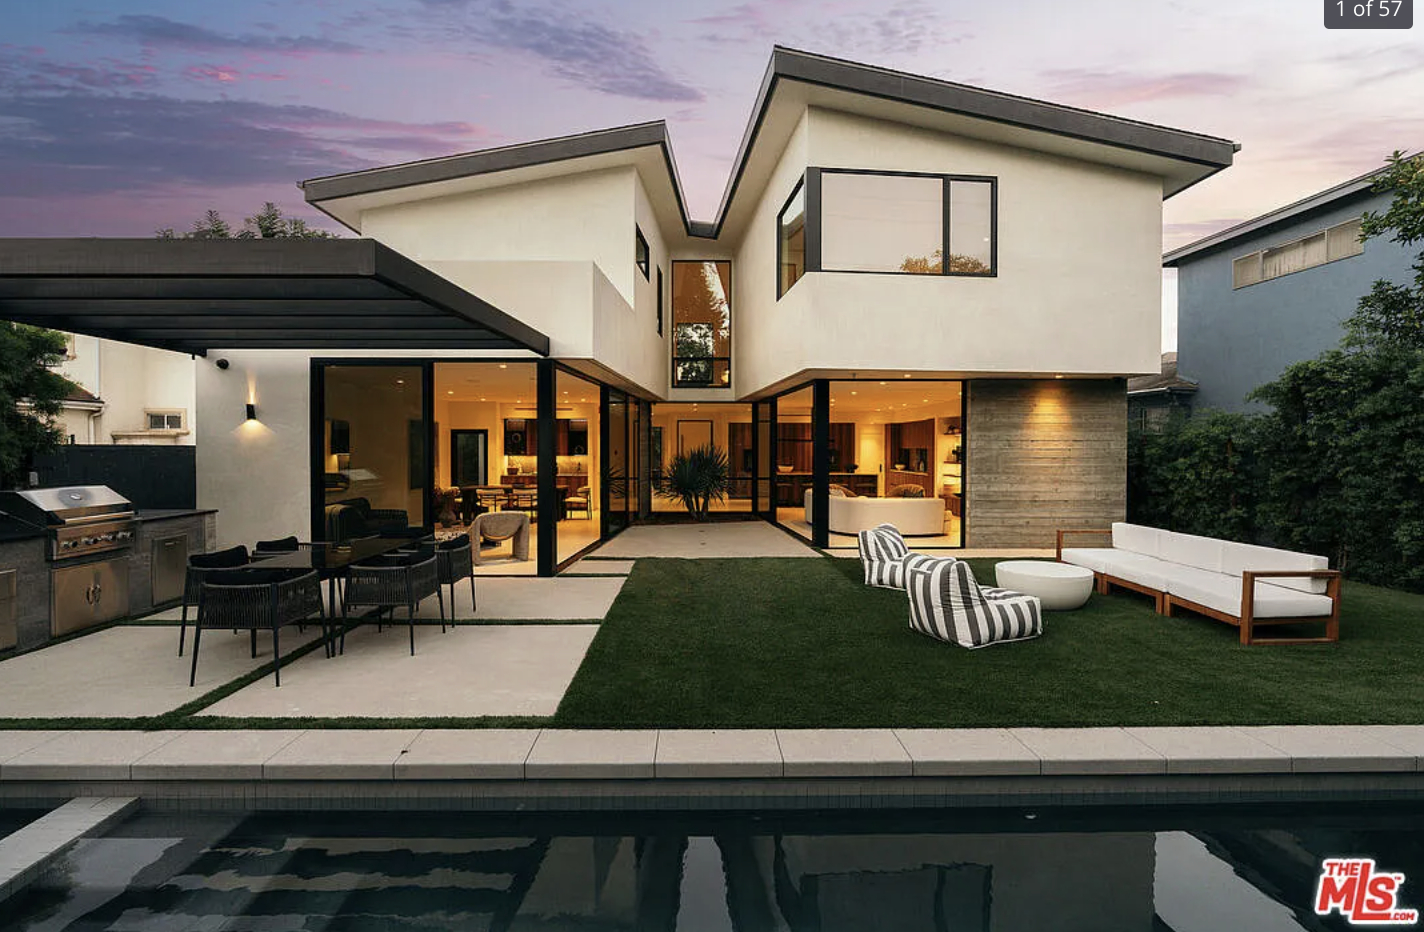
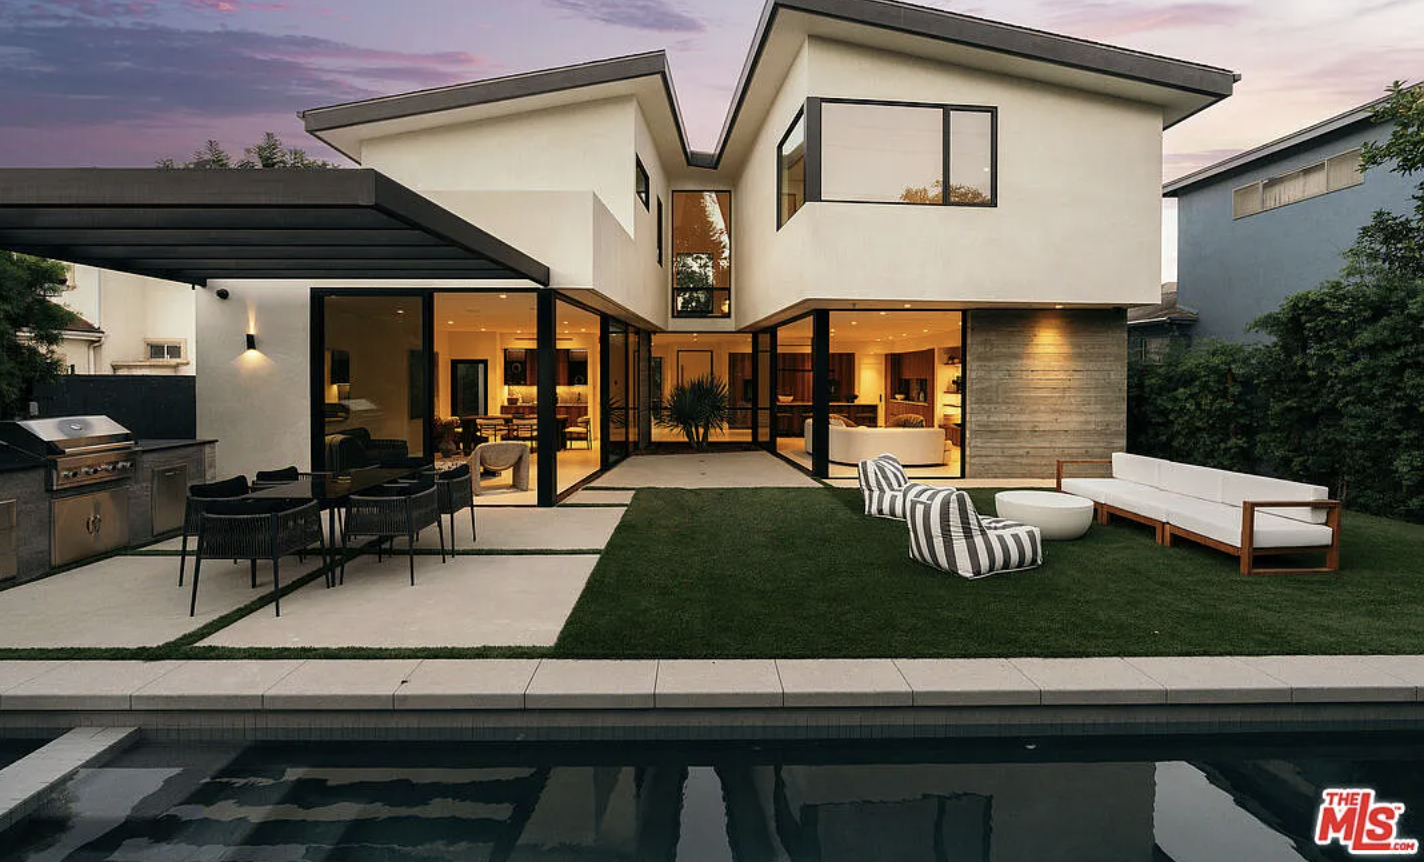
Fix admin price/rent form, hero image, card border, All Properties tab
- Admin: add syncPriceFields() so status drives which price fields show —
  FOR SALE shows sale price only, FOR LEASE shows rent only, FOR SALE/LEASE
  shows both; prevents rent being silently ignored when status is wrong
- Admin: newsletter year dropdown now goes back to 2012
- Hero image: crop top 70px to remove baked-in '1 of 57' lightbox badge
- CSS: remove grey border from .property-grid-item-2 (Built by Ben cards)
- current-listings.html: hide 'All Properties' tab button

diff --git a/current-listings.html b/current-listings.html
@@ -169,11 +169,7 @@
         <div class="container w-container">
           <div class="padding-listing-3">
             <div data-current="Grid" data-easing="ease" data-duration-in="300" data-duration-out="100" class="tabs-3 w-tabs">
-              <div class="tabs-menu-3 w-tab-menu">
-                <a data-w-tab="Grid" class="tab-link-3 w-inline-block w-tab-link w--current"><img alt="" loading="lazy" src="images/grid_view_white_24dp.svg" class="tab-icon-2">
-                  <p class="tab-title-3">All properties</p>
-                </a>
-              </div>
+              <div class="tabs-menu-3 w-tab-menu" style="display:none">
               <div class="tabs-content w-tab-content">
                 <div data-w-tab="Grid" class="tab-pane-2 w-tab-pane w--tab-active">
                   <div class="property-grid-2 current o w-dyn-list">

diff --git a/css/ben-lee-properties.webflow.css b/css/ben-lee-properties.webflow.css
@@ -5071,7 +5071,6 @@ figcaption {
 
 .property-grid-item-2 {
   z-index: 1;
-  border: 1px solid var(--silver);
   align-self: stretch;
   margin-top: -1px;
   margin-left: -1px;
@@ -9287,3 +9286,5 @@ figcaption {
     grid-template-columns: 1fr !important;
   }
 }
+
+.w-lightbox-count { display: none !important; }

diff --git a/admin.py b/admin.py
@@ -944,15 +944,15 @@ input:focus,select:focus,textarea:focus{border-color:#0a223f}
           </div>
         </div>
         <div class="frow-2">
-          <div>
-            <label for="p-price">Sale Price</label>
+          <div id="p-price-wrap">
+            <label for="p-price" id="p-price-label">Sale Price</label>
             <input id="p-price" type="text" placeholder="4,825,000">
             <div class="hint">Numbers only, no $ sign (e.g. 4,825,000)</div>
           </div>
-          <div>
-            <label for="p-rent">Monthly Rent <span style="color:#9ca3af;font-weight:500;text-transform:none;letter-spacing:0">(optional)</span></label>
+          <div id="p-rent-wrap">
+            <label for="p-rent">Monthly Rent</label>
             <input id="p-rent" type="text" placeholder="20,500">
-            <div class="hint">Leave blank if not for lease</div>
+            <div class="hint">Numbers only, no $ sign (e.g. 20,500)</div>
           </div>
         </div>
         <div class="frow-3">
@@ -1159,7 +1159,7 @@ $('#add-nl-btn').addEventListener('click', () => {
 function populateYears(current) {
   const sel = $('#nl-year');
   sel.innerHTML = '';
-  for (let y = current + 1; y >= 2020; y--) {
+  for (let y = current + 1; y >= 2012; y--) {
     const opt = document.createElement('option');
     opt.value = y;
     opt.textContent = y;
@@ -1275,6 +1275,7 @@ function openEditListing(id) {
   });
   showImgPreview('p-img1-preview', p.image1);
   showImgPreview('p-img2-preview', p.image2);
+  syncPriceFields();
   $('#prop-modal').style.display = 'flex';
   setTimeout(() => $('#p-address').focus(), 80);
 }
@@ -1286,6 +1287,7 @@ $('#add-listing-btn').addEventListener('click', () => {
   $('#p-city').value = 'Los Angeles'; $('#p-state').value = 'CA'; $('#p-status').value = 'FOR SALE';
   $('#p-image1').value = ''; $('#p-image2').value = '';
   $('#p-img1-preview').innerHTML = ''; $('#p-img2-preview').innerHTML = '';
+  syncPriceFields();
   $('#prop-modal').style.display = 'flex';
   setTimeout(() => $('#p-address').focus(), 80);
 });
@@ -1368,6 +1370,7 @@ function openEditProp(id) {
   $('#p-image2').value = p.image2 || '';
   showImgPreview('p-img1-preview', p.image1);
   showImgPreview('p-img2-preview', p.image2);
+  syncPriceFields();
   $('#prop-modal').style.display = 'flex';
   setTimeout(() => $('#p-address').focus(), 80);
 }
@@ -1379,9 +1382,26 @@ $('#add-prop-btn').addEventListener('click', () => {
   $('#p-city').value = 'Los Angeles'; $('#p-state').value = 'CA'; $('#p-status').value = 'FOR SALE';
   $('#p-image1').value = ''; $('#p-image2').value = '';
   $('#p-img1-preview').innerHTML = ''; $('#p-img2-preview').innerHTML = '';
+  syncPriceFields();
   $('#prop-modal').style.display = 'flex';
   setTimeout(() => $('#p-address').focus(), 80);
 });
+
+function syncPriceFields() {
+  const s = $('#p-status').value;
+  const priceWrap = $('#p-price-wrap');
+  const rentWrap  = $('#p-rent-wrap');
+  const priceLabel = $('#p-price-label');
+  const forLease = s === 'FOR LEASE';
+  const forSale  = s === 'FOR SALE' || s === 'SOLD';
+  const dual     = s === 'FOR SALE / LEASE';
+  priceWrap.style.display = forLease ? 'none' : '';
+  rentWrap.style.display  = forSale  ? 'none' : '';
+  if (priceLabel) priceLabel.textContent = s === 'SOLD' ? 'Sold Price' : 'Sale Price';
+  if (forLease) { $('#p-price').value = ''; }
+  if (forSale)  { $('#p-rent').value  = ''; }
+}
+$('#p-status').addEventListener('change', syncPriceFields);
 
 function closePropModal() { $('#prop-modal').style.display = 'none'; editingPropId = null; editingListingId = null; }
 $('#close-prop-modal').addEventListener('click', closePropModal);